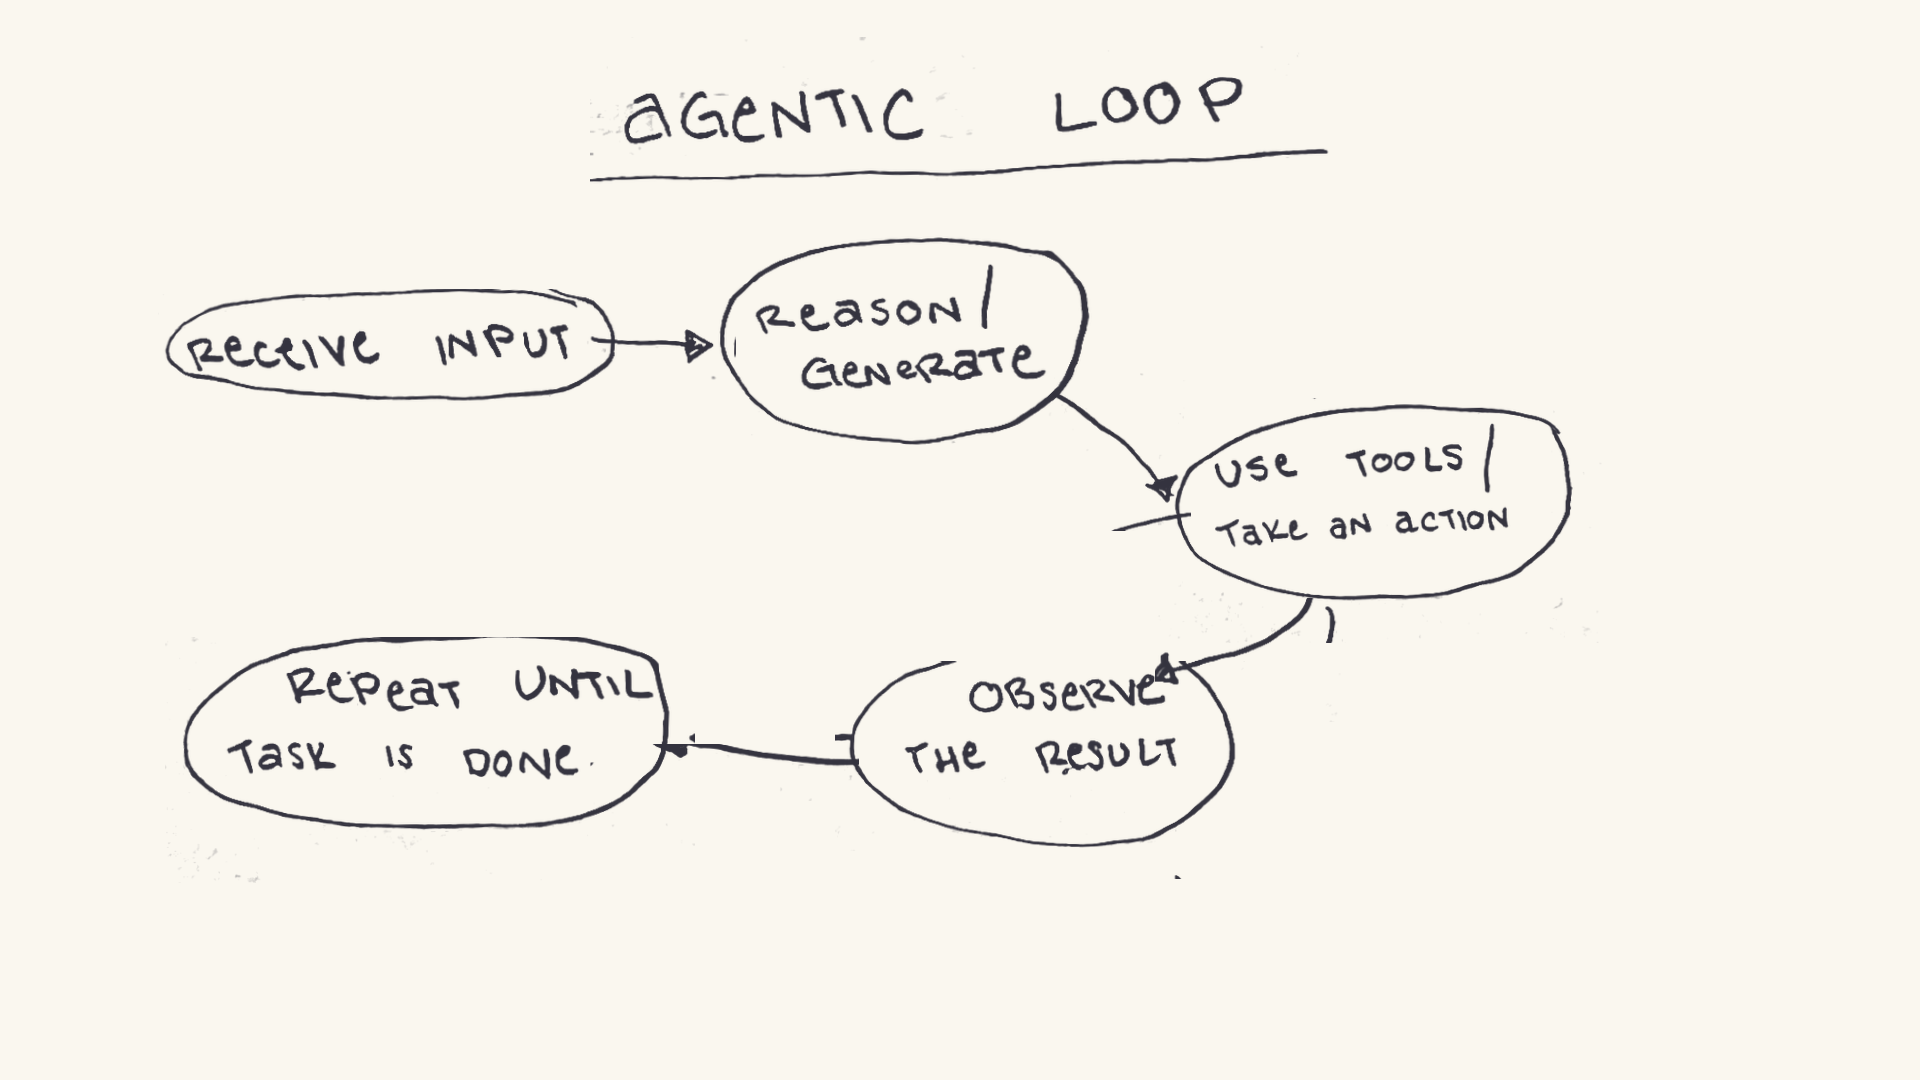
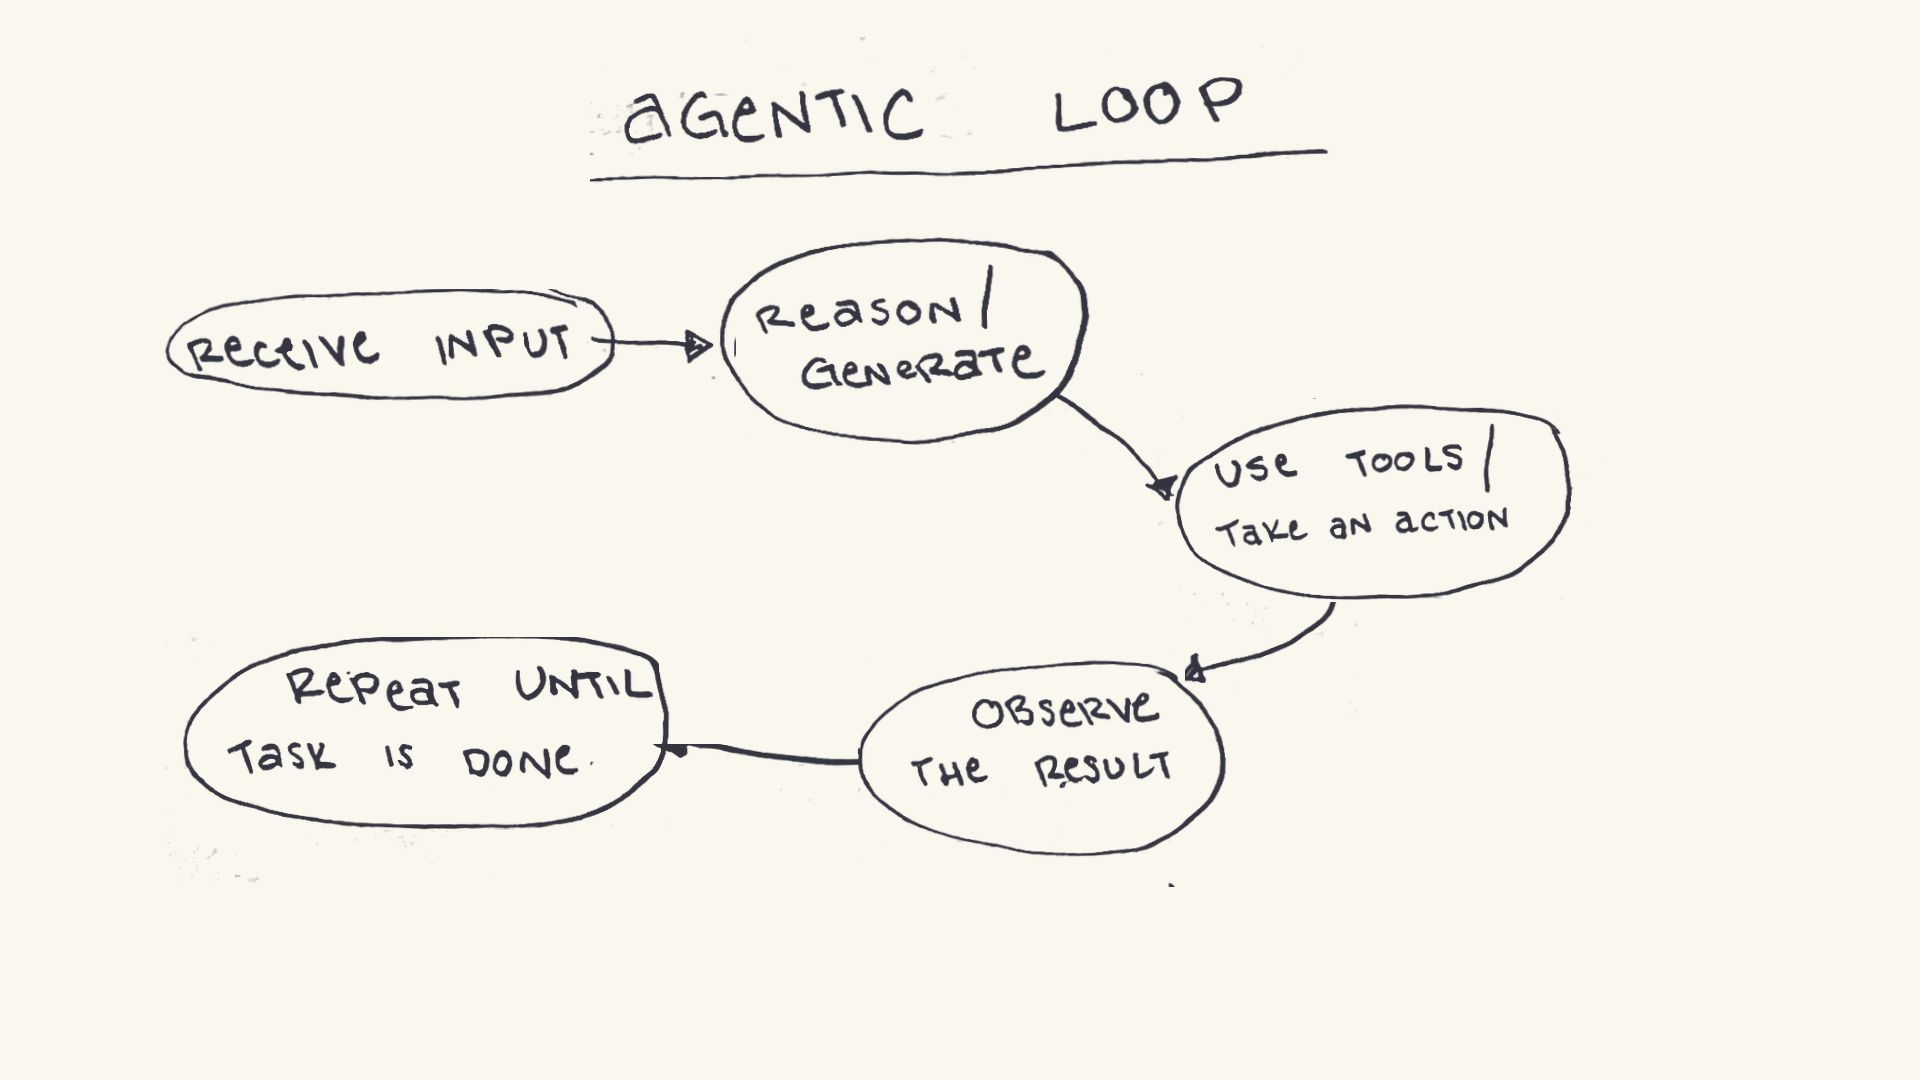
Add sketch 05: What is an Agent (definition + general vs specialized)

Changed region(s): [[0.4375, 0.55, 0.7188, 0.7944], [0.5938, 0.4583, 0.625, 0.4889]]

diff --git a/animations/pencil-codex/render_agentic_loop.py b/animations/pencil-codex/render_agentic_loop.py
@@ -67,8 +67,8 @@ PIECES = (
     PieceSpec("reason", (1090, 2085, 1490, 2285), (900, 338), (400, 220), 2.10, 0.82),
     PieceSpec("arrow_reason_tools", (1480, 2165, 1655, 2360), (1117, 448), (180, 165), 2.88, 0.42),
     PieceSpec("tools", (1450, 2325, 1950, 2600), (1380, 520), (490, 245), 3.22, 0.86),
-    PieceSpec("arrow_tools_observe", (1480, 2595, 1680, 2725), (1250, 660), (190, 145), 4.03, 0.42),
-    PieceSpec("observe", (1040, 2580, 1465, 2805), (1040, 770), (410, 235), 4.38, 0.84),
+    PieceSpec("arrow_tools_observe", (1480, 2595, 1680, 2725), (1275, 660), (180, 118), 4.03, 0.42),
+    PieceSpec("observe", (1040, 2535, 1465, 2805), (1040, 770), (410, 235), 4.38, 0.84),
     PieceSpec("arrow_observe_repeat", (815, 2640, 1045, 2725), (752, 772), (215, 118), 5.17, 0.40),
     PieceSpec("repeat", (280, 2530, 840, 2790), (430, 760), (530, 270), 5.50, 0.88),
 )
@@ -141,7 +141,31 @@ def fit_piece(image: Image.Image, max_size: tuple[int, int]) -> Image.Image:
     return image.resize(size, Image.Resampling.LANCZOS)
 
 
-def warp_alpha(alpha: np.ndarray, seed: int) -> np.ndarray:
+def clean_piece_edges(name: str, image: Image.Image) -> Image.Image:
+    """Mask neighboring connector fragments captured by rectangular crops."""
+    alpha = np.asarray(image.getchannel("A"), dtype=np.uint8).copy()
+    height, width = alpha.shape
+
+    if name == "arrow_reason_tools":
+        # The crop also catches a short section of the tools oval below the
+        # arrowhead; the complete oval lives in the tools piece.
+        alpha[round(height * 0.82) :, :] = 0
+    elif name == "tools":
+        # Remove the beginning of the outgoing connector below the oval.
+        alpha[round(height * 0.82) :, :] = 0
+    elif name == "observe":
+        # Remove the outgoing connector stub at the far left of the oval.
+        alpha[:, : round(width * 0.035)] = 0
+    elif name == "repeat":
+        # Remove a duplicate incoming arrowhead caught at the far-right edge.
+        alpha[:, round(width * 0.975) :] = 0
+
+    cleaned = image.copy()
+    cleaned.putalpha(Image.fromarray(alpha, "L"))
+    return cleaned
+
+
+def warp_alpha(alpha: np.ndarray, seed: int, amplitude: float = 0.52) -> np.ndarray:
     """Create a sub-pixel redraw variation without changing the linework."""
     rng = np.random.default_rng(seed)
     h, w = alpha.shape
@@ -151,18 +175,22 @@ def warp_alpha(alpha: np.ndarray, seed: int) -> np.ndarray:
     dy = gaussian_filter(raw_y, sigma=15.0)
     dx /= max(float(np.std(dx)), 1e-6)
     dy /= max(float(np.std(dy)), 1e-6)
-    dx *= 0.52
-    dy *= 0.52
+    dx *= amplitude
+    dy *= amplitude
     yy, xx = np.mgrid[0:h, 0:w].astype(np.float32)
     warped = map_coordinates(alpha, (yy + dy, xx + dx), order=1, mode="nearest")
     return np.clip(warped, 0.0, 255.0)
 
 
-def boil_variants(image: Image.Image, seed: int) -> tuple[Image.Image, Image.Image, Image.Image]:
+def boil_variants(
+    image: Image.Image,
+    seed: int,
+    amplitude: float = 0.52,
+) -> tuple[Image.Image, Image.Image, Image.Image]:
     base = np.asarray(image.getchannel("A"), dtype=np.float32)
     variants: list[Image.Image] = []
     for index in range(3):
-        alpha = warp_alpha(base, seed * 101 + index * 17)
+        alpha = warp_alpha(base, seed * 101 + index * 17, amplitude=amplitude)
         # Tiny pressure changes read as graphite being redrawn, without flicker.
         alpha = np.clip(alpha * (0.98 + index * 0.018), 0.0, 255.0).astype(np.uint8)
         rgba = np.zeros((*alpha.shape, 4), dtype=np.uint8)
@@ -220,14 +248,18 @@ def prepare_pieces(ink: Image.Image) -> dict[str, PreparedPiece]:
     pieces: dict[str, PreparedPiece] = {}
     for index, spec in enumerate(PIECES):
         crop = trim_transparent(ink.crop(spec.crop))
-        fitted = fit_piece(crop, spec.max_size)
+        fitted = clean_piece_edges(spec.name, fit_piece(crop, spec.max_size))
         position = (
             round(spec.center[0] - fitted.width / 2),
             round(spec.center[1] - fitted.height / 2),
         )
         pieces[spec.name] = PreparedPiece(
             spec=spec,
-            variants=boil_variants(fitted, seed=index + 11),
+            variants=boil_variants(
+                fitted,
+                seed=index + 11,
+                amplitude=0.18 if spec.name == "repeat" else 0.52,
+            ),
             reveal_order=make_reveal_order(spec.name, fitted),
             position=position,
             size=fitted.size,